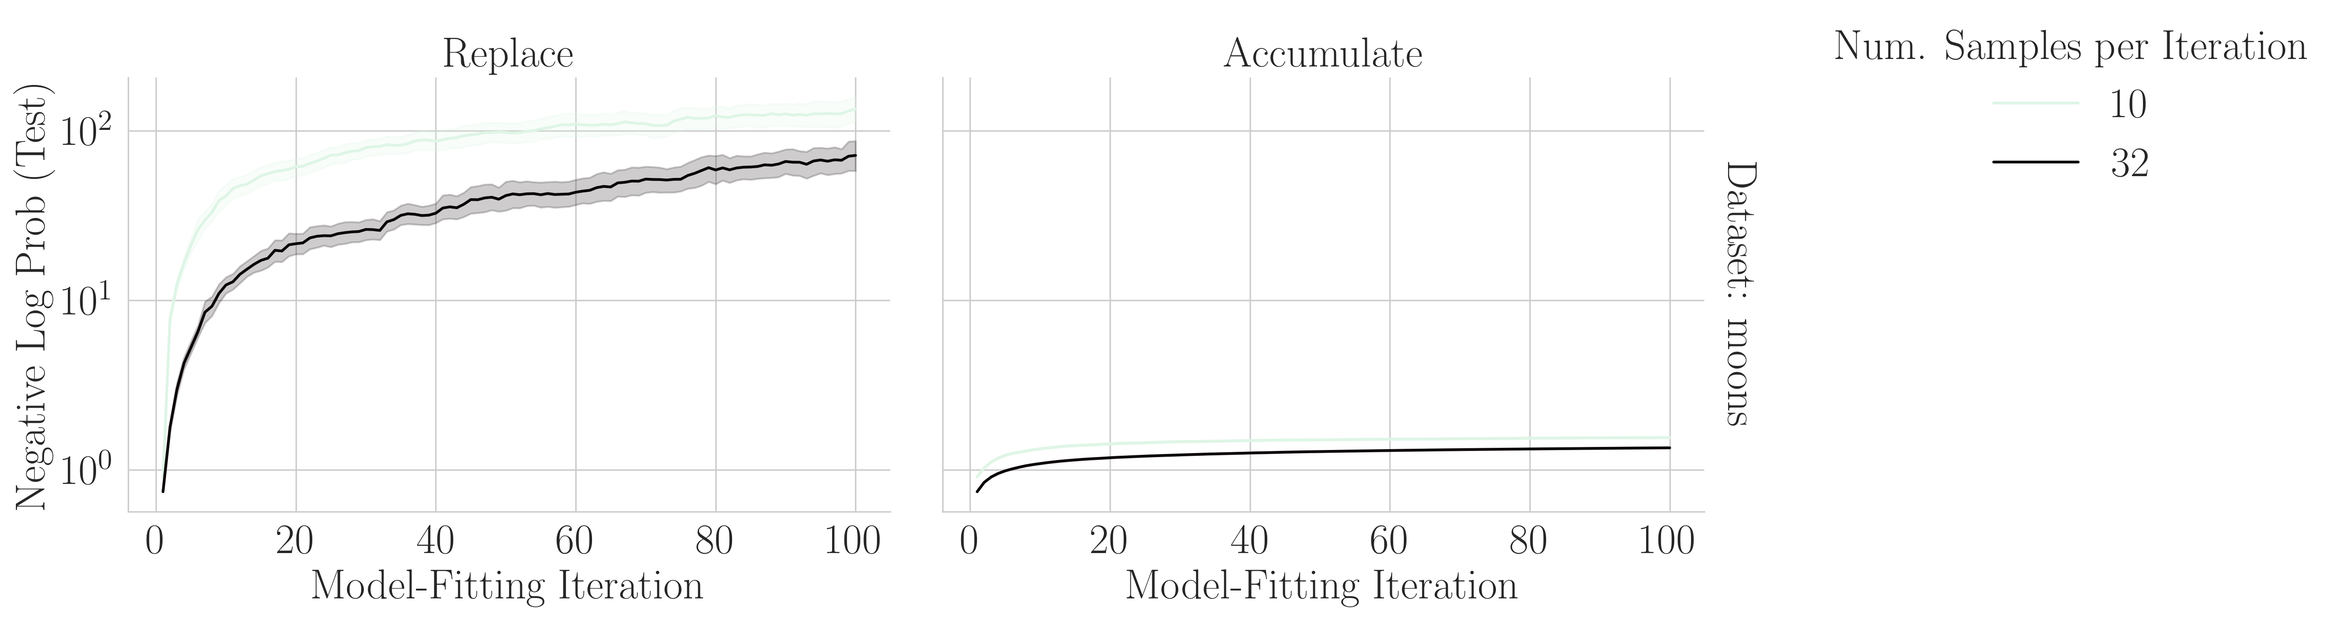
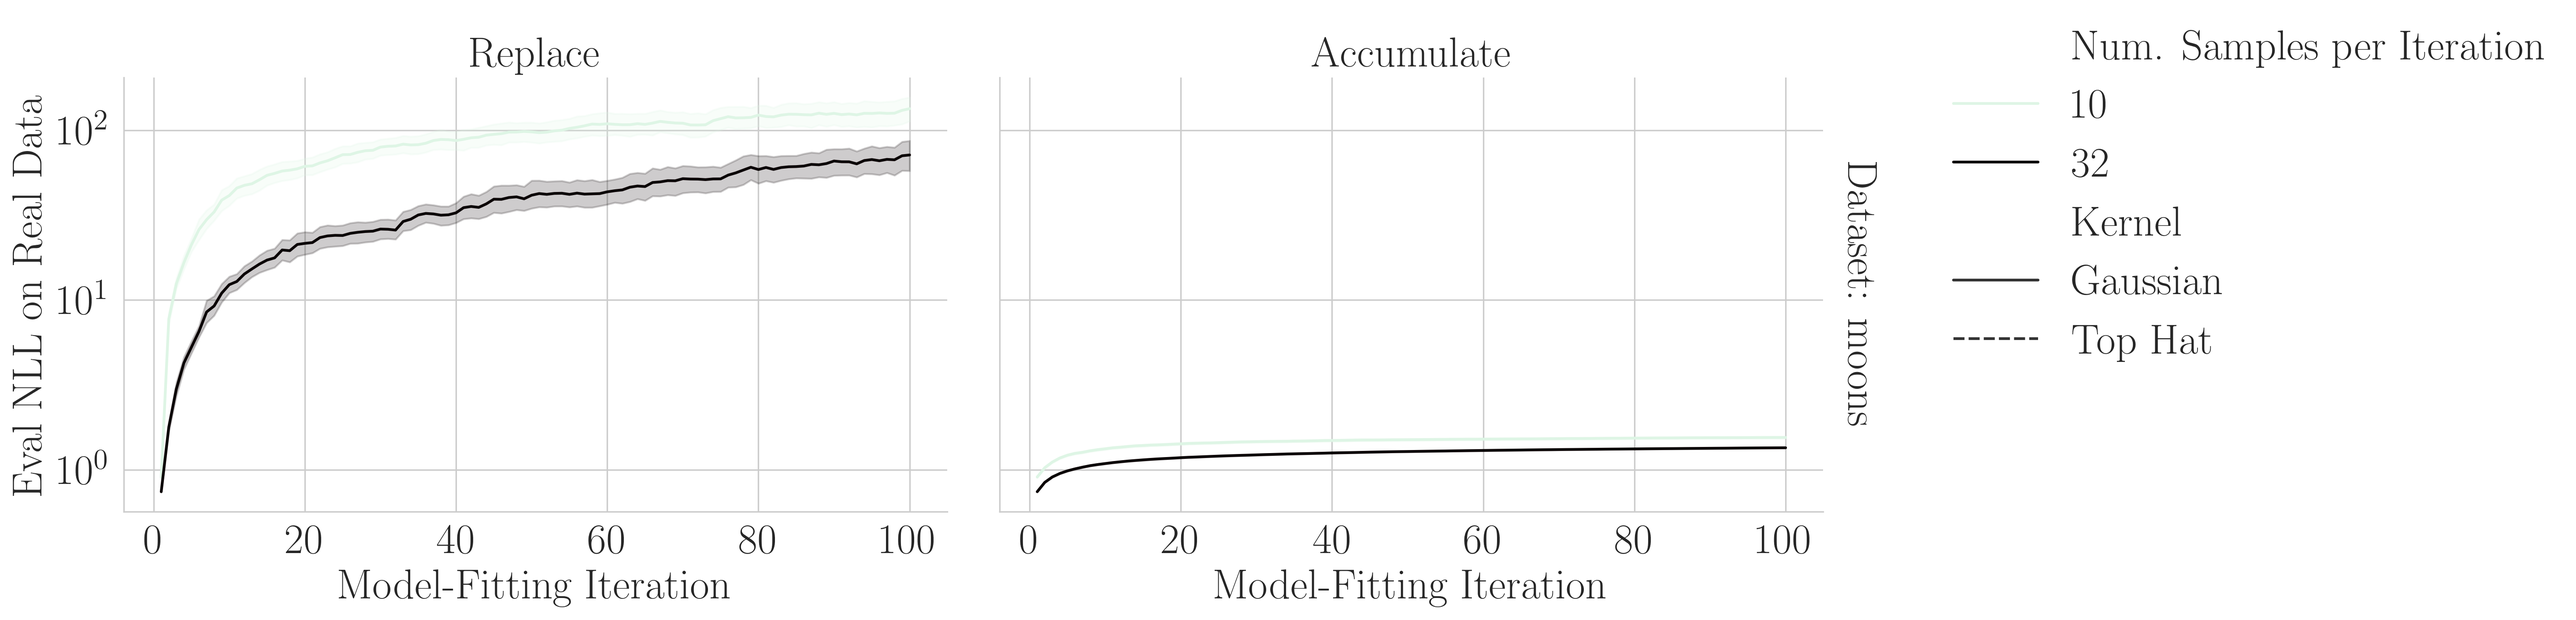
Polished notebook 02 KDE fitting

diff --git a/notebooks/02_kde_fitting/02_kde_fitting.py b/notebooks/02_kde_fitting/02_kde_fitting.py
@@ -62,6 +62,22 @@ runs_configs_df = runs_configs_df.rename(
     }
 )
 
+# Rename "Kernel" column values.
+runs_configs_df["Kernel"] = runs_configs_df["Kernel"].map(
+    {
+        "gaussian": "Gaussian",
+        "tophat": "Top Hat",
+    }
+)
+
+# Rename "Dataset" column values.
+runs_configs_df["Dataset"] = runs_configs_df["Dataset"].map(
+    {
+        "moons": "Moons",
+    }
+)
+
+
 run_histories_df: pd.DataFrame = src.analyze.download_wandb_project_runs_histories(
     wandb_project_path="rerevisiting-model-collapse-fit-kdes",
     data_dir=data_dir,
@@ -100,6 +116,8 @@ g = sns.relplot(
     row="Dataset",
     hue="Num. Samples per Iteration",
     hue_norm=matplotlib.colors.LogNorm(),
+    style="Kernel",
+    style_order=["Gaussian", "Top Hat"],
     palette="mako_r",
     legend="full",
     facet_kws={"sharex": True, "sharey": "row", "margin_titles": True},
@@ -130,6 +148,8 @@ for bandwidth, bandwidth_group_df in extended_run_histories_df.groupby(
         row="Dataset",
         hue="Num. Samples per Iteration",
         hue_norm=matplotlib.colors.LogNorm(),
+        style="Kernel",
+        style_order=["Gaussian", "Top Hat"],
         palette="mako_r",
         legend="full",
         facet_kws={"sharex": True, "sharey": "row", "margin_titles": True},
